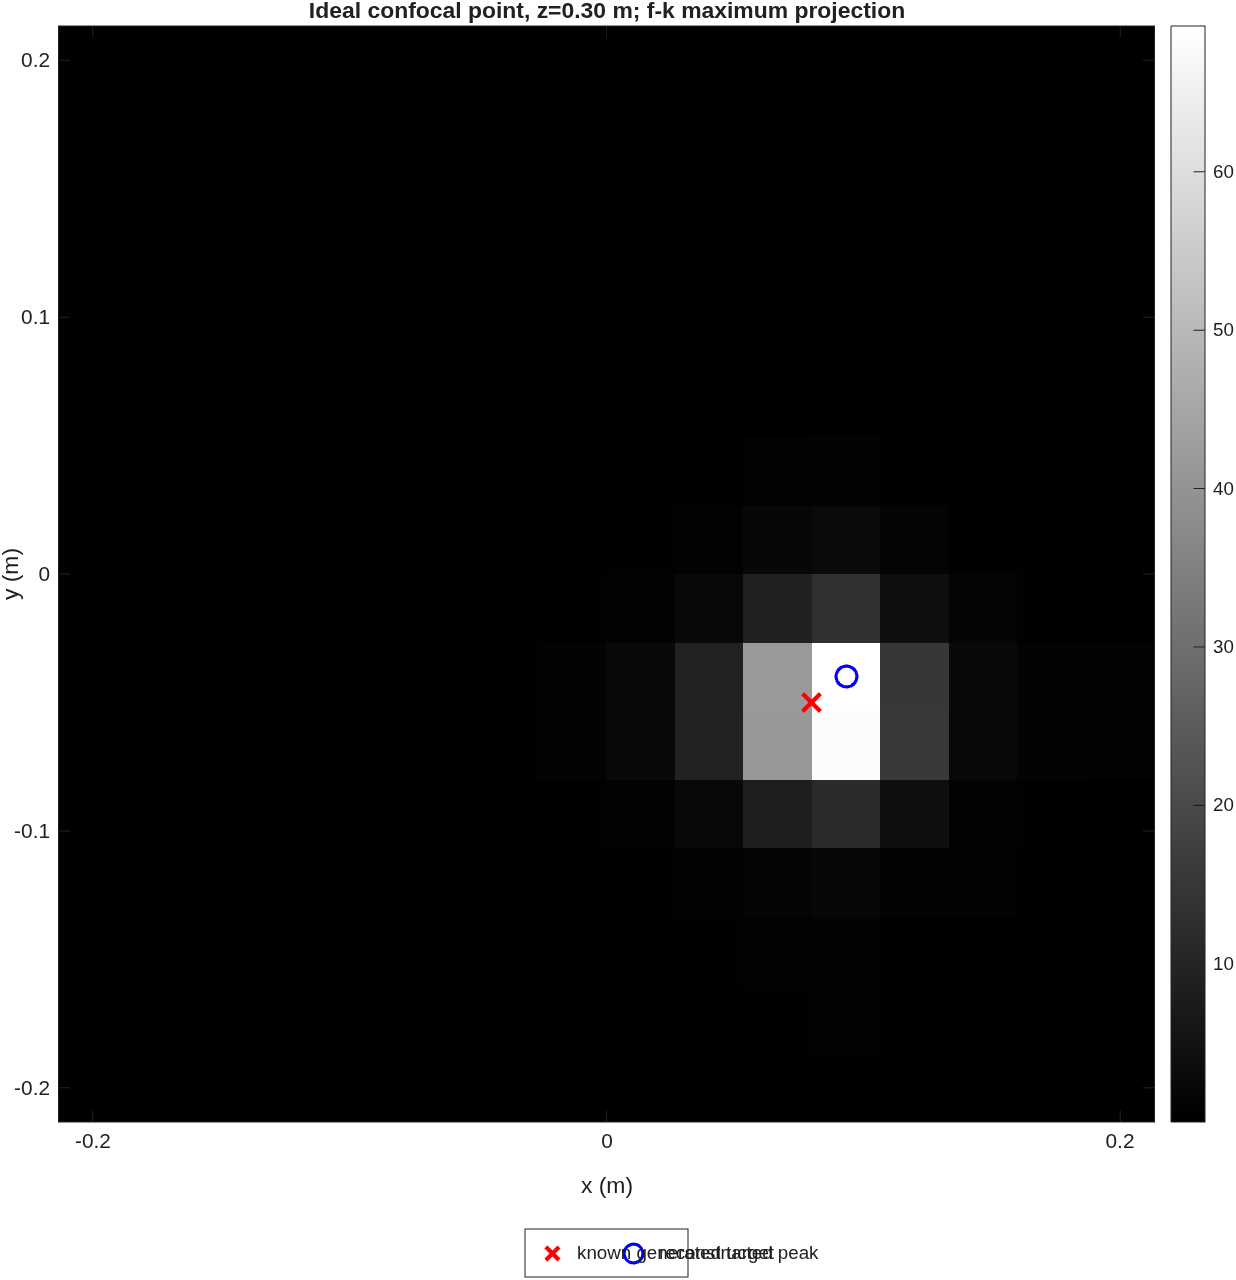
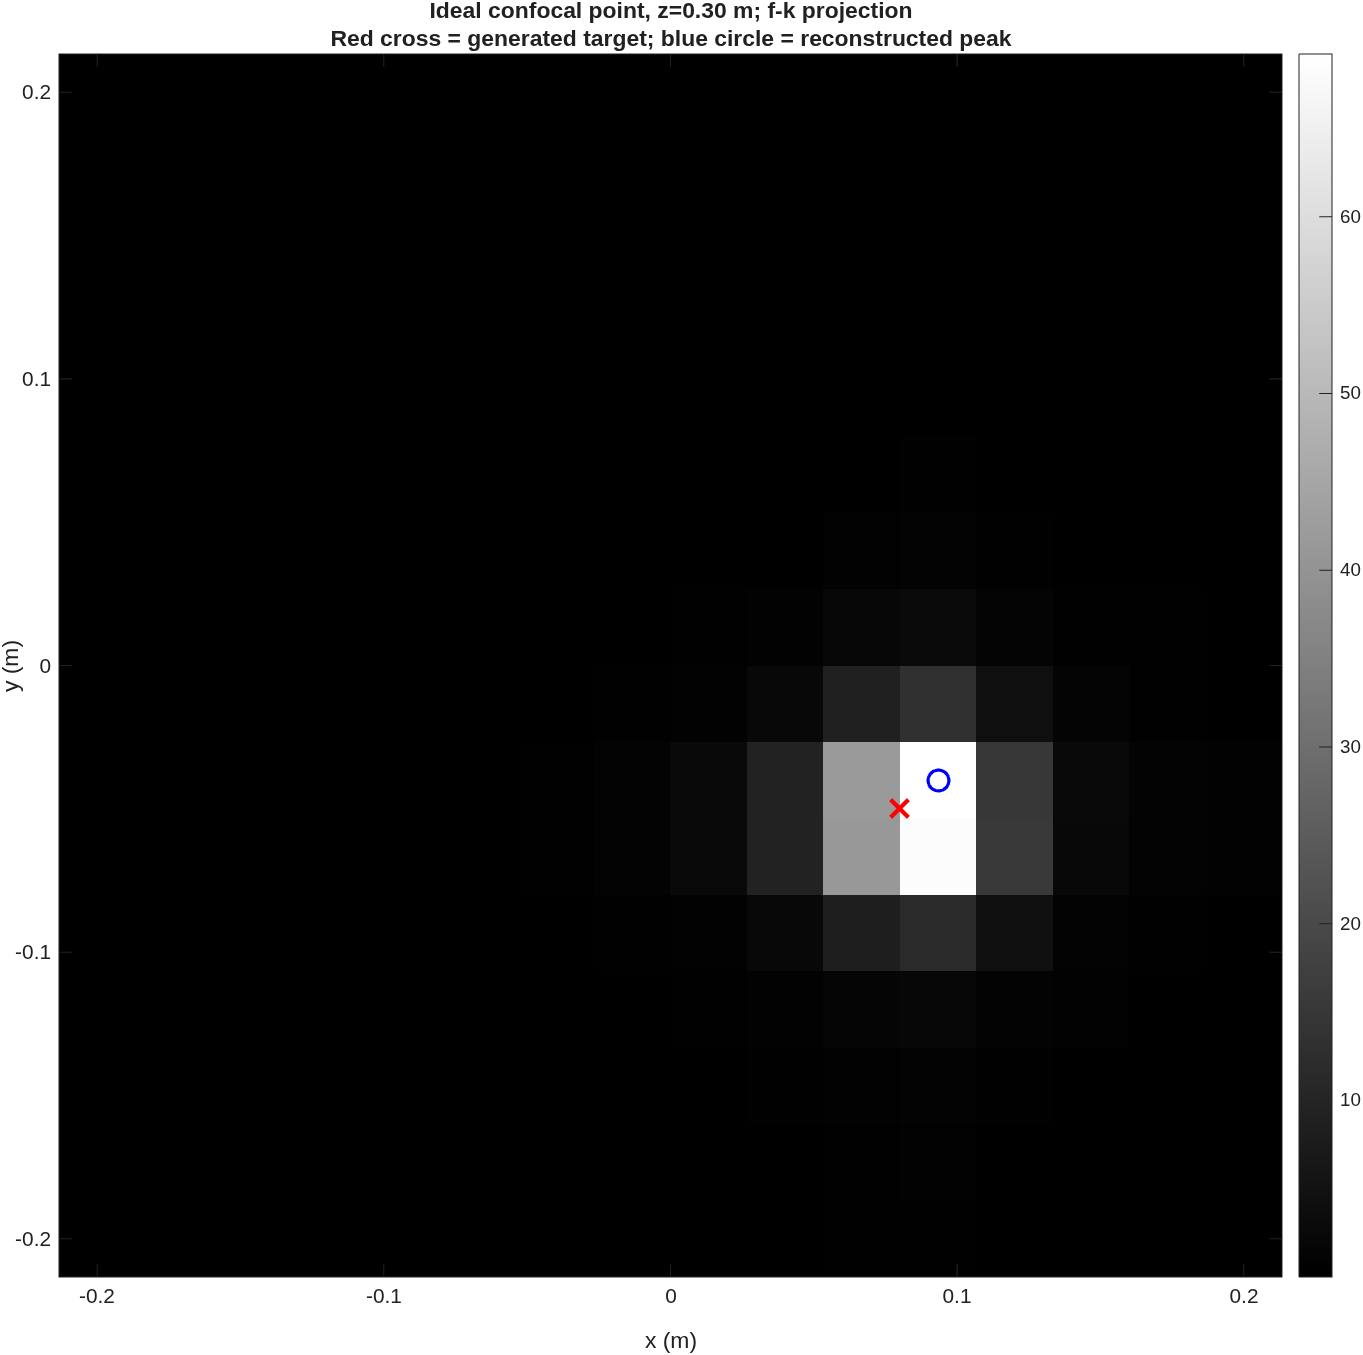
Publish the inspected point export and pin the current artifact runtime

Changed region(s): [[0.0, 0.0, 1.0, 1.0], [0.5227, 0.4375, 0.7994, 0.7188]]

diff --git a/NOTICE.md b/NOTICE.md
@@ -4,4 +4,4 @@ The retained numerical code, utilities and scene illustrations originate from [c
 
 The original SOURCE-MANIFEST.json records the 10 MATLAB source/utility files and 22 scene illustrations at that pinned upstream version. Nine of those source files and all scene illustrations remain unchanged. The intentional changes to `cnlos_reconstruction.m` are recorded in docs/SOURCE-AMENDMENTS.json and remain subject to the original academic/noncommercial terms. The original Copyright (c) 2018, Stanford University notice and academic/noncommercial terms remain in [LICENSE](LICENSE).
 
-HiddenWave adds repository identity, documentation, artwork, a forwarding entry point, smoke/numerical checks and an original ideal confocal point example. The existing reconstruction formulas remain; input admission, default crop handling and optional headless/metadata return were added to the retained function. These additions are covered separately by [LICENSE-branding](LICENSE-branding). This notice records provenance and does not change either license.
+HiddenWave adds repository identity, documentation, artwork, a forwarding entry point, smoke/numerical checks and an original ideal confocal point example. The existing reconstruction formulas remain; input admission, default crop handling and optional headless/metadata return were added to the retained function. Separately authored documentation, artwork, wrapper, tests and the original ideal-input generator are covered by [LICENSE-branding](LICENSE-branding). Changes inside the retained `cnlos_reconstruction.m` remain under its original academic/noncommercial terms. This notice records provenance and does not change either license.

diff --git a/docs/VERIFICATION.md b/docs/VERIFICATION.md
@@ -83,3 +83,10 @@ left measurement and reconstruction arrays exactly unchanged. The current plots
 were visually inspected. The README embeds an unedited PNG downloaded from that
 successful hosted production run, separately from the retained research picture.
 No performance speedup is claimed from varying cold graphics/JIT timing.
+
+
+The hosted renderer exposed a horizontal-legend collision absent from the Mac
+preview. The original export was retained, plot labels moved into a self-contained
+two-line title, and exact plot revisionaf285c8 passed hostedrun40972892515. Both
+fresh Linux exports were inspected; the README PNG comes from that corrected run.
+These render-only changes do not affect saved measurement or reconstruction arrays.

diff --git a/README.md b/README.md
@@ -36,7 +36,7 @@ not the output of this example.
 ![Newly computed f-k maximum projection for an ideal confocal point](docs/ideal-confocal-point.png)
 
 *Actual output of `confocal_point` at the verified reconstruction revision
-`121ddb9`, [MATLAB CI run40972081929](https://github.com/nazeeh111/HiddenWave/actions/runs/40972081929).
+`af285c8`, [MATLAB CI run40972892515](https://github.com/nazeeh111/HiddenWave/actions/runs/40972892515).
 Red marks the original generated target; blue marks the actual reconstructed peak.
 For target `[.08,-.05,.30]`m the peak was `[.09333,-.04,.30478]`m; the changed
 `[-.08,.05,.40]`m target peaked at `[-.09333,.06667,.40154]`m. These are ideal-input
